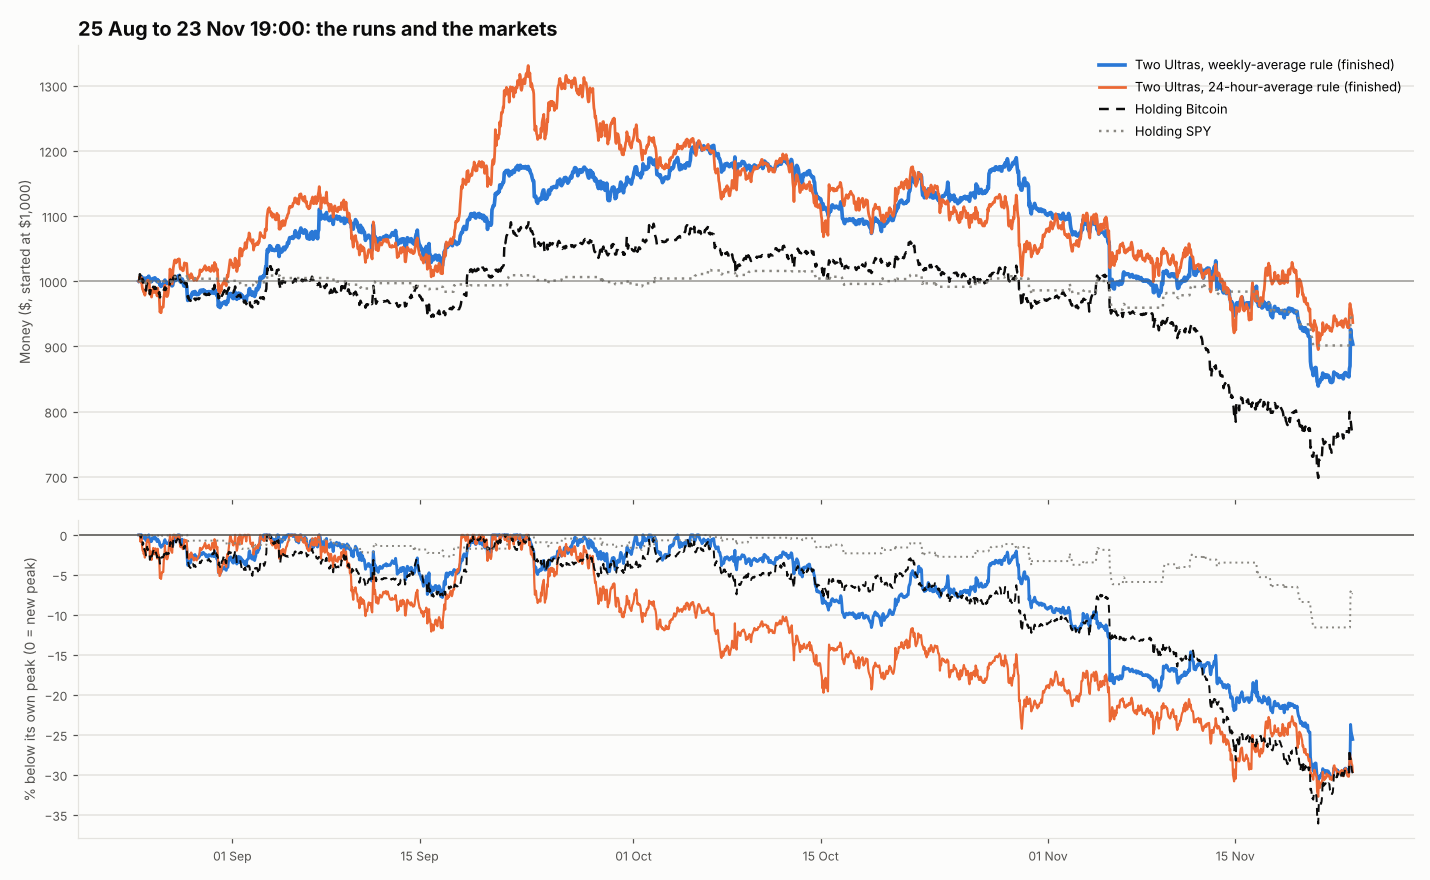
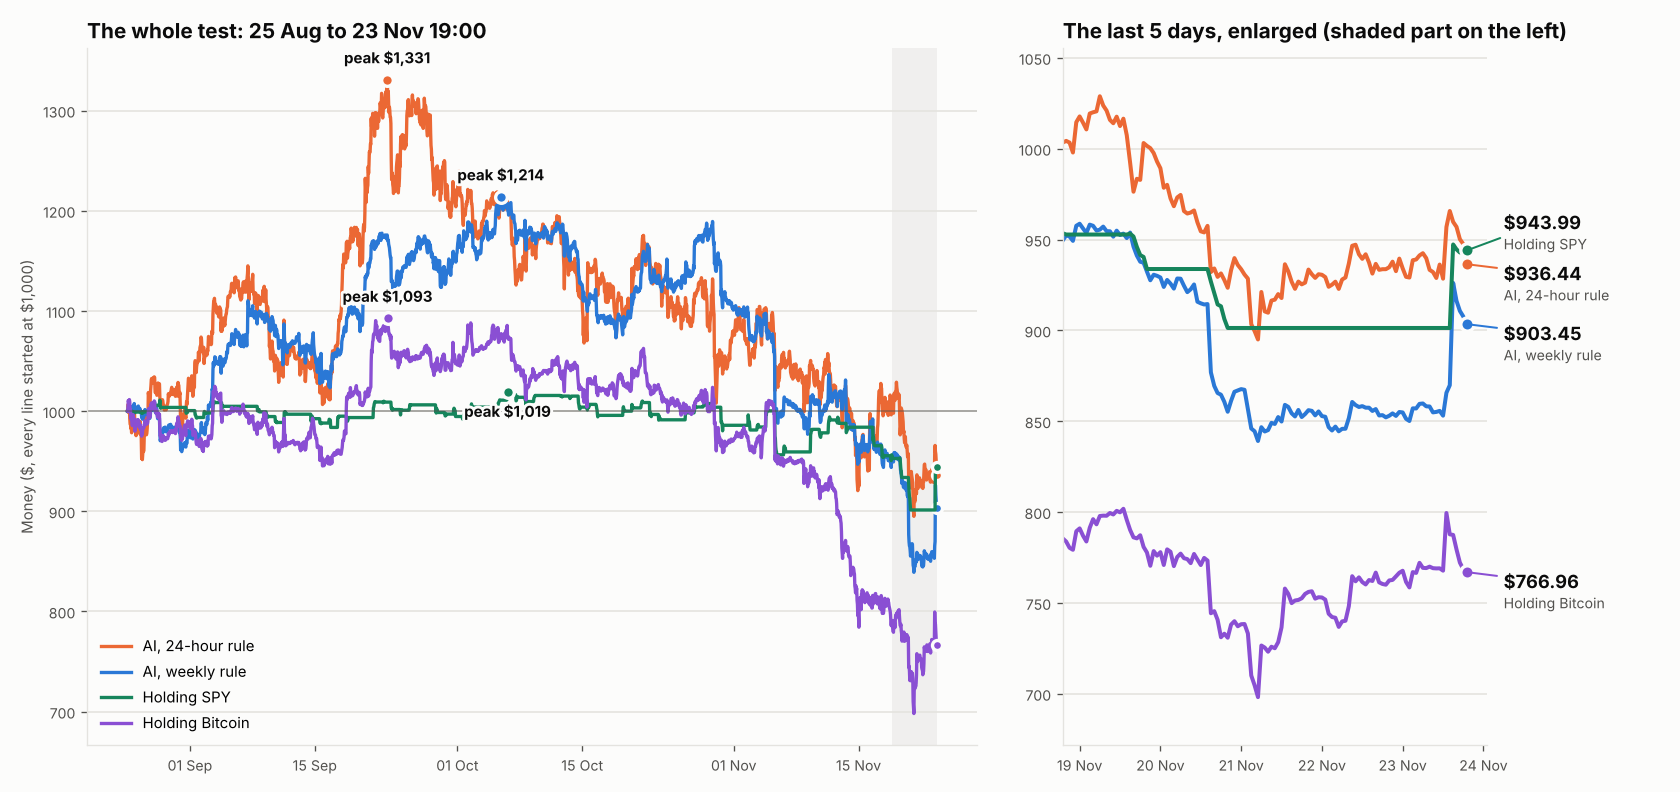
Redraw the update graph: ending dollars written on it, last days enlarged, peaks marked
Claude-Session: https://claude.ai/code/session_01Q4zuW2hFjpzuH9a9JaFPqg

diff --git a/mixed/update_chart.py b/mixed/update_chart.py
@@ -1,55 +1,90 @@
 #!/usr/bin/env python3
-"""The standard update graph: the weekly-average run, the earlier 24-hour-average run, holding Bitcoin and holding
-SPY on the same dates. Top: money. Bottom: each one's % below ITS OWN peak (0 = at a new peak).
+"""The standard update graph: both two-Ultra runs, holding Bitcoin and holding SPY, all cut at the same last hour.
+Left: the whole test, with each line's peak marked. Right: the last days enlarged, with each line's ending dollars
+written on it, so the picture and the printed table show the same numbers.
     python3 mixed/update_chart.py -> mixed/update_chart.png (+ printed numbers)"""
 import csv
 import os
-from datetime import datetime
+from datetime import datetime, timedelta
 
 import matplotlib
 matplotlib.use("Agg")
 import matplotlib.pyplot as plt
 import matplotlib.dates as mdates
+import matplotlib.patheffects as pe
 
 plt.rcParams["text.parse_math"] = False
 HERE = os.path.dirname(os.path.abspath(__file__))
 INK, INK2, GRID, SURF = "#0b0b0b", "#52514e", "#e4e3df", "#fcfcfb"
+ZOOM_DAYS = 5
 
 
 def load(name):
     return [r for r in csv.DictReader(open(os.path.join(HERE, name))) if r.get("value")]
 
 
+def spread(ys, gap):
+    """Move label heights apart so none overlap; keeps their order."""
+    order = sorted(range(len(ys)), key=lambda i: ys[i])
+    out = list(ys)
+    for a, b in zip(order, order[1:]):
+        if out[b] - out[a] < gap:
+            out[b] = out[a] + gap
+    shift = sum(out[i] - ys[i] for i in order) / len(ys)
+    return [y - shift for y in out]
+
+
 def main():
     wk = load("watcher_hourly_3m_ultra_week.csv")
-    old = load("watcher_hourly_3m_ultra_avg24.csv")
-    t_end = wk[-1]["time"]
-    old = [r for r in old if r["time"] <= t_end]                      # same dates only
-    series = {
-        "Two Ultras, weekly-average rule (finished)": (wk, "value", "#2a78d6", 2.4),
-        "Two Ultras, 24-hour-average rule (finished)": (old, "value", "#eb6834", 1.8),
-        "Holding Bitcoin": (wk, "btc_hold", INK, 1.6),
-        "Holding SPY": (wk, "spy_hold", "#898781", 1.6)}
-    fig, (a1, a2) = plt.subplots(2, 1, figsize=(13, 8), facecolor=SURF, sharex=True, gridspec_kw={"height_ratios": [2, 1.4]})
-    print(f"Same dates, 25 Aug to {t_end}; each against its own peak:")
-    for name, (rows, key, col, lw) in series.items():
+    day = load("watcher_hourly_3m_ultra_avg24.csv")
+    t_end = min(wk[-1]["time"], day[-1]["time"])                      # the same last hour for every line
+    wk = [r for r in wk if r["time"] <= t_end]
+    day = [r for r in day if r["time"] <= t_end]
+    series = [("AI, 24-hour rule", day, "value", "#eb6834", 2.0),
+              ("AI, weekly rule", wk, "value", "#2a78d6", 2.0),
+              ("Holding SPY", day, "spy_hold", "#16855c", 2.0),
+              ("Holding Bitcoin", day, "btc_hold", "#8a4fd3", 2.0)]
+    end = datetime.strptime(t_end, "%Y-%m-%d %H:%M")
+    z0 = end - timedelta(days=ZOOM_DAYS)
+    fig, (a1, a2) = plt.subplots(1, 2, figsize=(14, 6.6), facecolor=SURF, gridspec_kw={"width_ratios": [2.1, 1]})
+    print(f"Same hour for every line: {t_end}. Each against its own peak:")
+    ends, zlo, zhi = [], 1e9, 0
+    for name, rows, key, col, lw in series:
         t = [datetime.strptime(r["time"], "%Y-%m-%d %H:%M") for r in rows]
         v = [float(r[key]) for r in rows]
-        pk, dd = 0.0, []
-        for x in v:
-            pk = max(pk, x)
-            dd.append(100 * (x / pk - 1))
-        ls = (0, (4, 3)) if name == "Holding Bitcoin" else ((0, (1, 2)) if name == "Holding SPY" else "-")
-        a1.plot(t, v, color=col, lw=lw, ls=ls, label=name)
-        a2.plot(t, dd, color=col, lw=lw * 0.8, ls=ls)
-        print(f"  {name:50s} now ${v[-1]:8.2f} | peak ${pk:8.2f} | {dd[-1]:+5.1f}% from peak | deepest {min(dd):+5.1f}%")
+        ip = max(range(len(v)), key=lambda i: v[i])
+        a1.plot(t, v, color=col, lw=lw, label=name)
+        a1.plot([t[ip]], [v[ip]], "o", color=col, ms=7, mec=SURF, mew=2, zorder=5)
+        a1.annotate(f"peak ${v[ip]:,.0f}", (t[ip], v[ip]), xytext=(0, -15 if key == "spy_hold" else 10),
+                    textcoords="offset points", ha="center", fontsize=9, color=INK, weight="bold", zorder=6,
+                    path_effects=[pe.withStroke(linewidth=3.5, foreground=SURF)])
+        a1.plot([t[-1]], [v[-1]], "o", color=col, ms=6, mec=SURF, mew=2)
+        zt = [x for x in t if x >= z0]
+        zv = v[-len(zt):]
+        a2.plot(zt, zv, color=col, lw=lw + 0.4)
+        a2.plot([zt[-1]], [zv[-1]], "o", color=col, ms=8, mec=SURF, mew=2)
+        zlo, zhi = min(zlo, min(zv)), max(zhi, max(zv))
+        ends.append((name, v[-1], col))
+        print(f"  {name:18s} ends ${v[-1]:8.2f} | peak ${v[ip]:8.2f} on {rows[ip]['time']} | {100 * (v[-1] / v[ip] - 1):+5.1f}% from peak")
+    # ending dollars written beside the enlarged panel, spaced so they never overlap
+    ys = spread([e[1] for e in ends], (zhi - zlo) * 0.085)
+    for (name, val, col), y in zip(ends, ys):
+        a2.annotate(f"${val:,.2f}", (end, val), xytext=(end + timedelta(hours=ZOOM_DAYS * 2.2), y), textcoords="data",
+                    fontsize=11, weight="bold", color=INK, va="center", annotation_clip=False,
+                    arrowprops={"arrowstyle": "-", "color": col, "lw": 1.2})
+        a2.annotate(name, (end, val), xytext=(end + timedelta(hours=ZOOM_DAYS * 2.2), y - (zhi - zlo) * 0.036),
+                    textcoords="data", fontsize=8.5, color=INK2, va="center", annotation_clip=False)
     a1.axhline(1000, color=INK2, lw=1, alpha=0.5)
-    a1.set_ylabel("Money ($, started at $1,000)", color=INK2, fontsize=9)
-    a1.set_title(f"25 Aug to {t_end[8:10]} {datetime.strptime(t_end, '%Y-%m-%d %H:%M'):%b %H:%M}: the runs and the markets",
-                 loc="left", fontsize=13, color=INK, weight="bold")
-    a1.legend(loc="best", fontsize=8.5, frameon=False)
-    a2.axhline(0, color=INK2, lw=1)
-    a2.set_ylabel("% below its own peak (0 = new peak)", color=INK2, fontsize=9)
+    a1.axvspan(z0, end, color=INK2, alpha=0.07, lw=0)
+    a1.set_title(f"The whole test: 25 Aug to {end:%d %b %H:%M}", loc="left", fontsize=12.5, color=INK, weight="bold")
+    a1.set_ylabel("Money ($, every line started at $1,000)", color=INK2, fontsize=9)
+    a1.legend(loc="lower left", fontsize=9, frameon=False)
+    a1.xaxis.set_major_formatter(mdates.DateFormatter("%d %b"))
+    a2.set_title(f"The last {ZOOM_DAYS} days, enlarged (shaded part on the left)", loc="left", fontsize=12.5, color=INK,
+                 weight="bold")
+    a2.set_xlim(z0, end + timedelta(hours=ZOOM_DAYS * 1.2))
+    a2.set_ylim(zlo - (zhi - zlo) * 0.08, zhi + (zhi - zlo) * 0.08)
+    a2.xaxis.set_major_locator(mdates.DayLocator())
     a2.xaxis.set_major_formatter(mdates.DateFormatter("%d %b"))
     for ax in (a1, a2):
         ax.grid(axis="y", color=GRID, lw=1)
@@ -58,9 +93,10 @@ def main():
             ax.spines[s].set_visible(False)
         for s in ("left", "bottom"):
             ax.spines[s].set_color(GRID)
-        ax.tick_params(colors=INK2, labelsize=8)
+        ax.tick_params(colors=INK2, labelsize=8.5)
     fig.tight_layout()
-    fig.savefig(os.path.join(HERE, "update_chart.png"), dpi=110, facecolor=SURF)
+    fig.subplots_adjust(right=0.885, wspace=0.13)
+    fig.savefig(os.path.join(HERE, "update_chart.png"), dpi=120, facecolor=SURF)
 
 
 if __name__ == "__main__":
